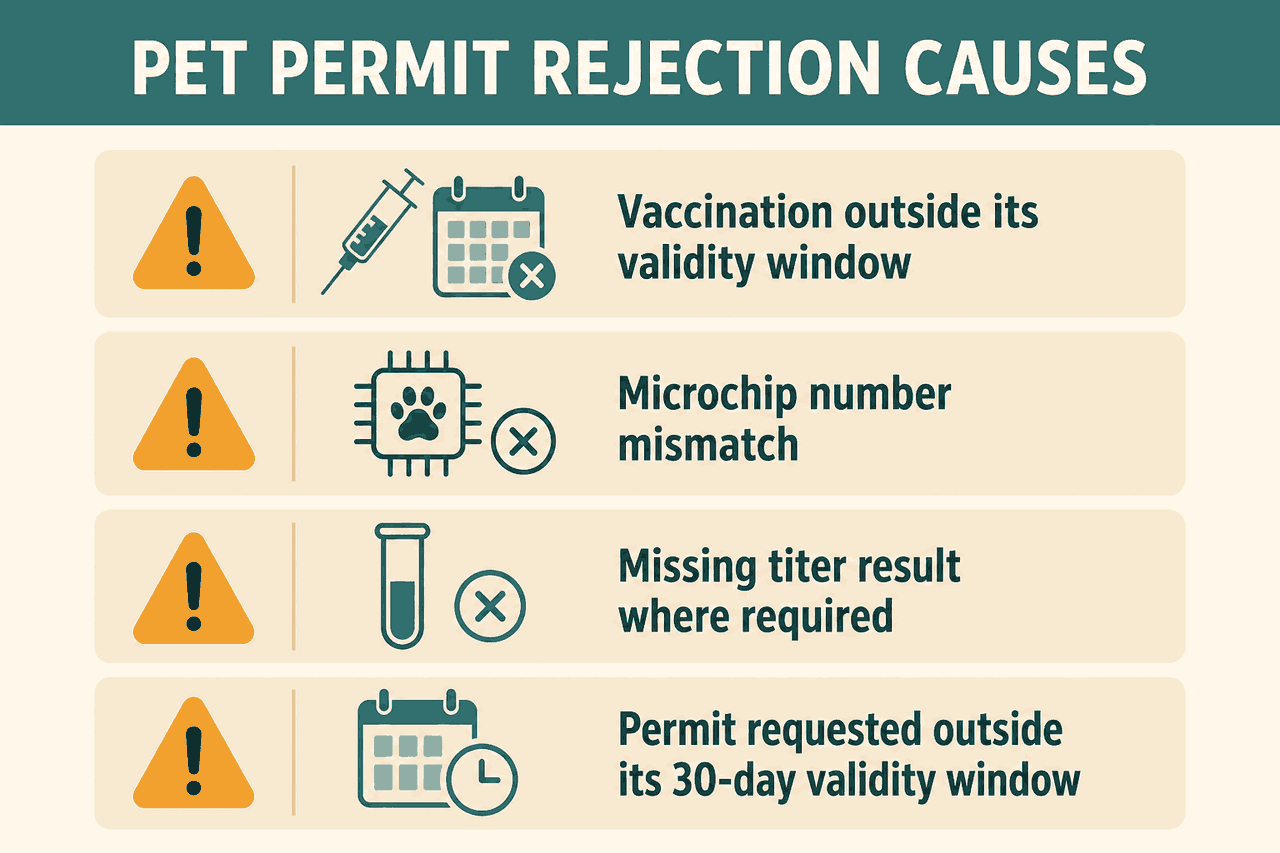
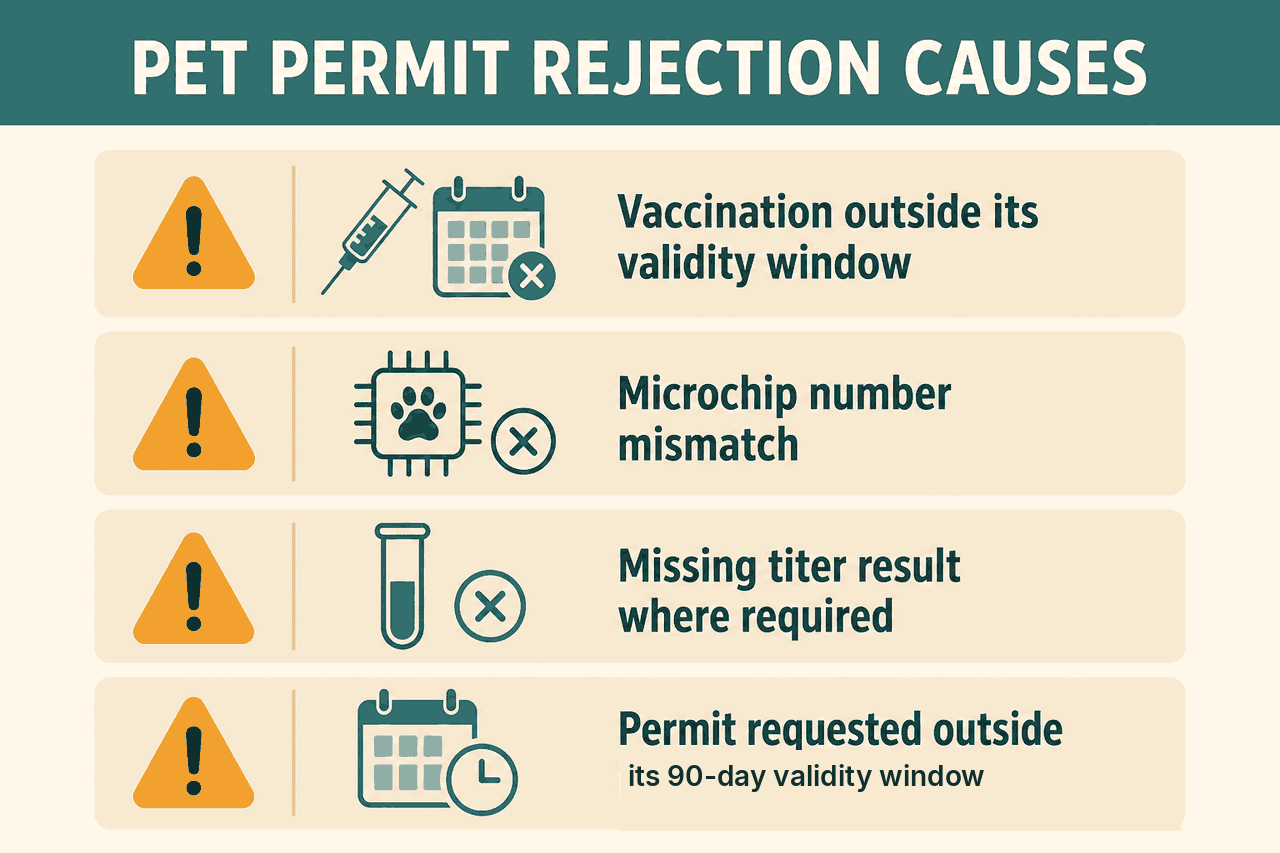
fix(dpr): MOCCAE import permit 30→90 in W5 diagrams
Overwrite the five W5 infographics that still burned in 30-day import-permit validity, and drop the invented AED 150 fee from the steps diagram. Captions now match the 90-day-from-issuance rule.

Changed region(s): [[0.4688, 0.8839, 0.8438, 0.9449]]

diff --git a/website/src/pages/MOCCAEPermitGuide.tsx b/website/src/pages/MOCCAEPermitGuide.tsx
@@ -331,7 +331,7 @@ export default function MOCCAEPermitGuide() {
           <ContentImage
             src="/assets/w5/moccae-import-permit-application-steps-diagram.png"
             alt="Step-by-step MOCCAE pet import permit application from account setup to permit issue"
-            caption="Generic UI blocks — not screenshots of the live portal. Fee and validity stay in the copy."
+            caption="Generic UI blocks — not screenshots of the live portal. Confirm the live fee on the MOCCAE portal. Permit validity is 90 days from issuance."
           />
 
           <div className="space-y-6 mb-10">

diff --git a/website/src/data/services/moccaePetPermit.ts b/website/src/data/services/moccaePetPermit.ts
@@ -77,7 +77,7 @@ const moccaePetPermit: ServicePageData = {
           type: 'image',
           src: '/assets/w5/moccae-import-permit-application-flowchart.png',
           alt: 'MOCCAE pet import permit application flow from document collection to approval tracking',
-          caption: 'Documents complete? If no, fix before you pay the portal. Validity overlays stay in the copy, not in the graphic.',
+          caption: 'Documents complete? If no, fix before you pay the portal. Issued permits are valid 90 days from issuance.',
         },
         {
           type: 'steps',
